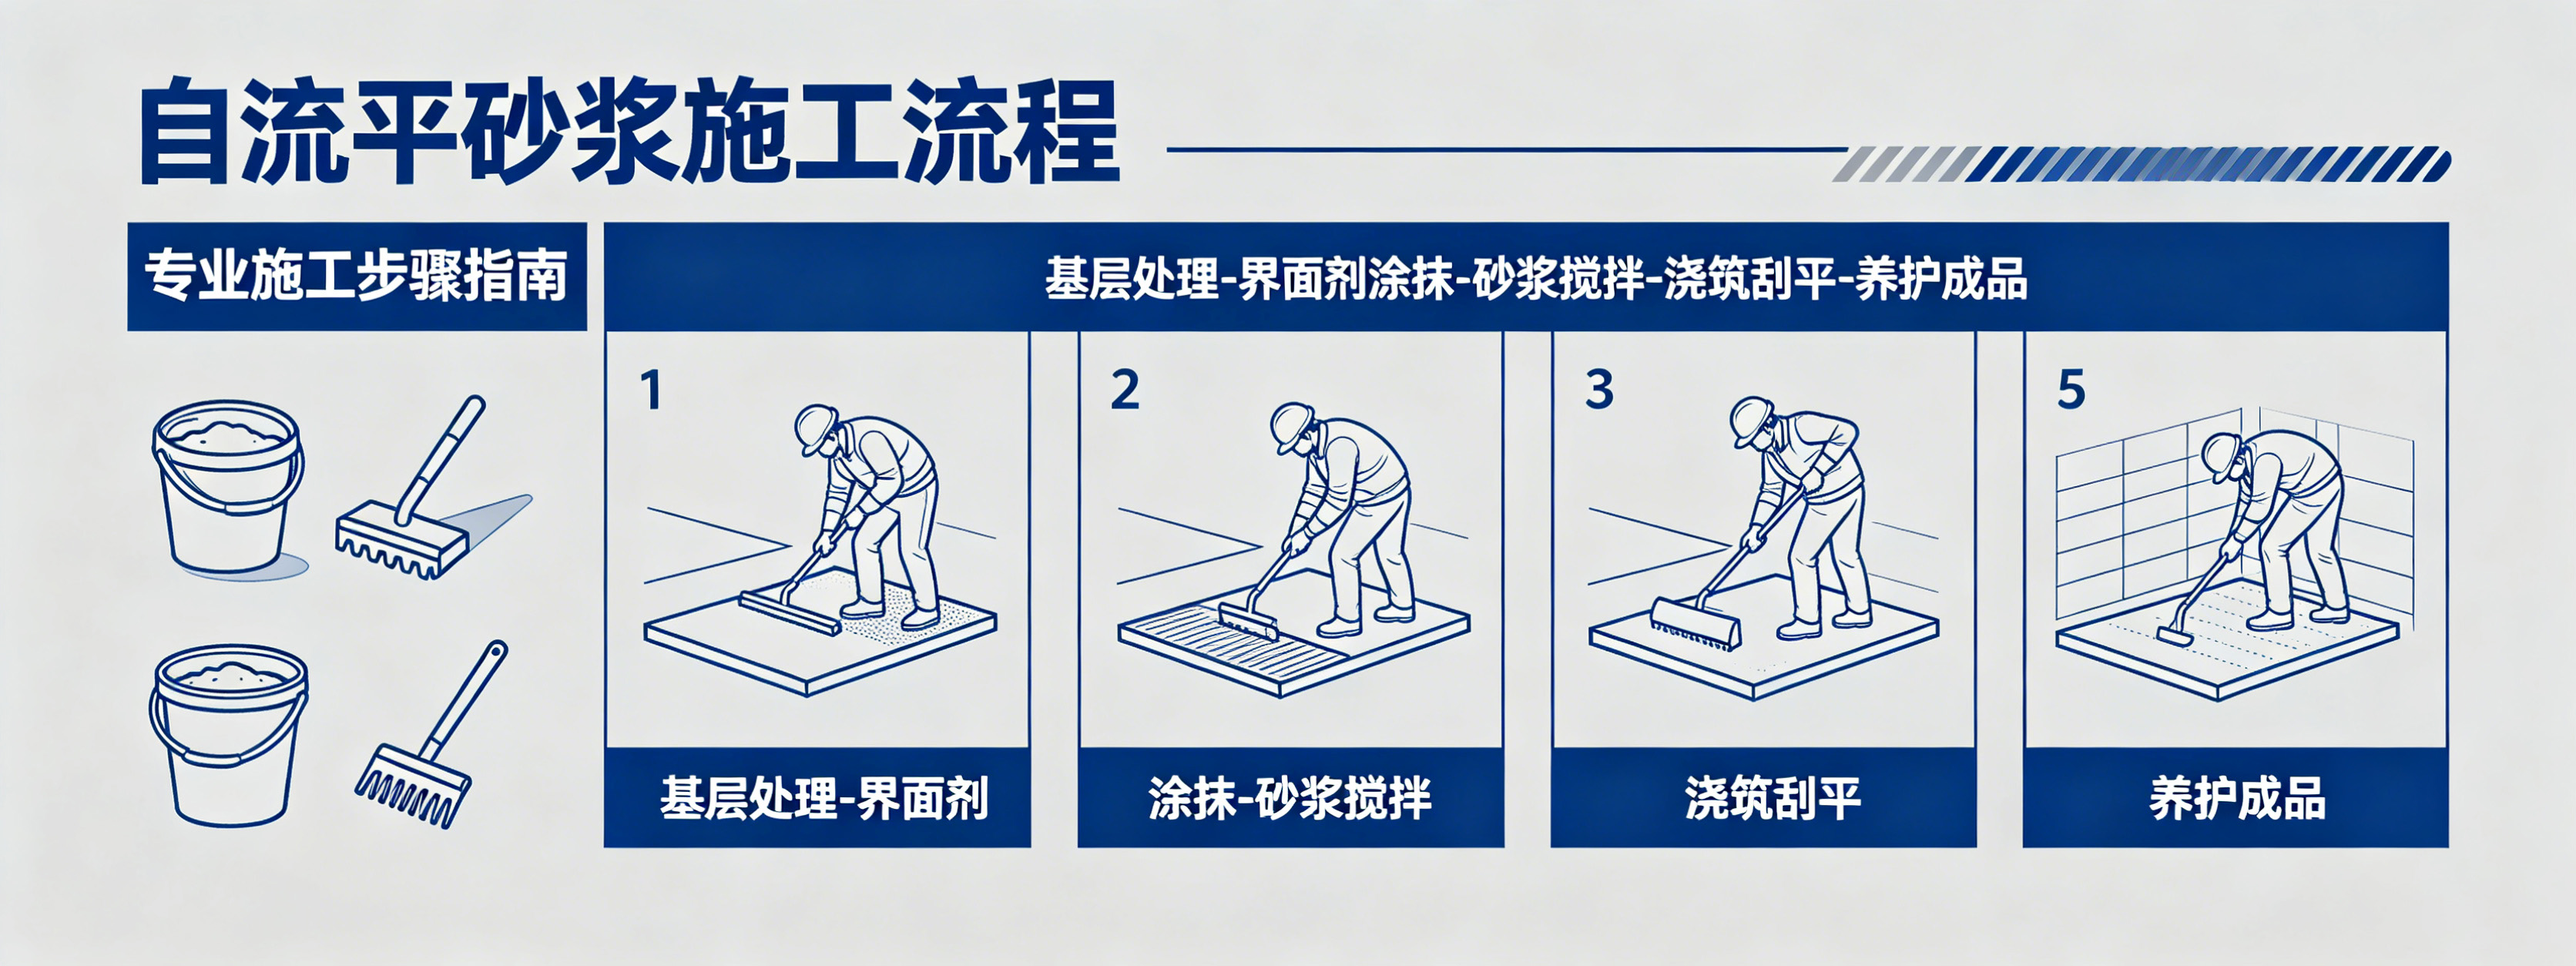
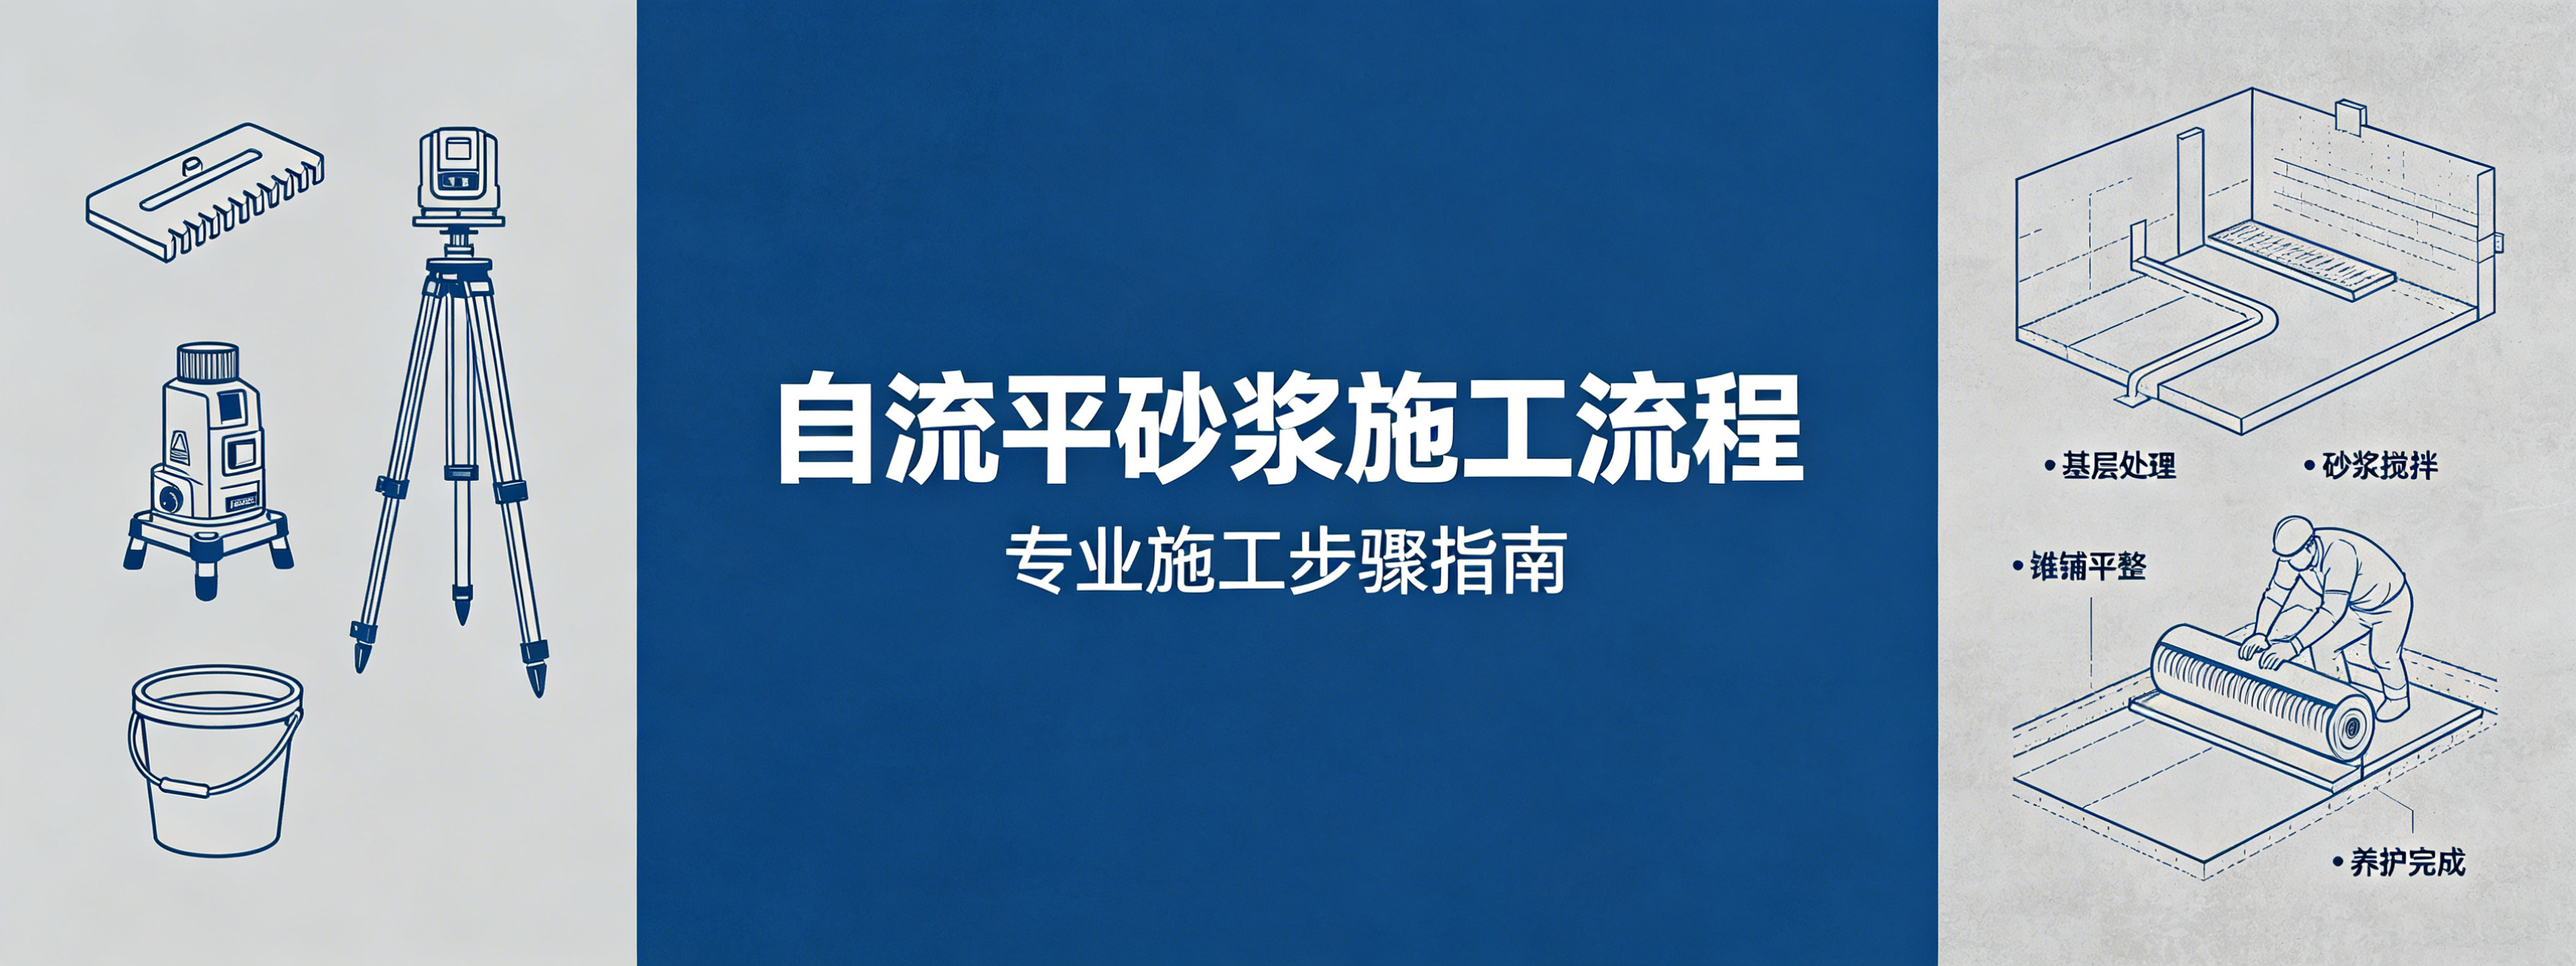
去掉联系我们页面的在线留言模块

diff --git a/src/app/contact/page.tsx b/src/app/contact/page.tsx
@@ -1,25 +1,6 @@
-'use client';
-
-import { useState } from 'react';
 import { siteConfig } from '@/data/siteData';
 
 export default function ContactPage() {
-  const [formData, setFormData] = useState({
-    name: '',
-    phone: '',
-    email: '',
-    company: '',
-    message: ''
-  });
-  const [submitted, setSubmitted] = useState(false);
-
-  const handleSubmit = (e: React.FormEvent) => {
-    e.preventDefault();
-    console.log('Form submitted:', formData);
-    setSubmitted(true);
-    setTimeout(() => setSubmitted(false), 5000);
-  };
-
   return (
     <div className="min-h-screen">
       {/* 顶部Banner */}
@@ -32,7 +13,7 @@ export default function ContactPage() {
       </div>
 
       <div className="max-w-7xl mx-auto px-4 py-12">
-        <div className="grid lg:grid-cols-2 gap-8">
+        <div className="max-w-3xl mx-auto">
           {/* 联系信息 */}
           <div className="glass-card p-8">
             <h2 className="text-2xl font-bold text-dark-800 mb-6">联系方式</h2>
@@ -80,96 +61,6 @@ export default function ContactPage() {
               <p className="text-xs text-dark-400 mt-1 text-center">河南省郑州市高新技术产业开发区</p>
               <p className="text-xs text-primary-500 mt-0.5 text-center group-hover:underline">点击查看导航 →</p>
             </a>
-          </div>
-
-          {/* 在线留言 */}
-          <div className="glass-card p-8">
-            <h2 className="text-2xl font-bold text-dark-800 mb-6">在线留言</h2>
-
-            {submitted ? (
-              <div className="h-full flex items-center justify-center">
-                <div className="text-center">
-                  <div className="text-6xl mb-4">✅</div>
-                  <h3 className="text-xl font-semibold text-dark-800 mb-2">提交成功！</h3>
-                  <p className="text-dark-500">我们会尽快与您联系，感谢您的关注！</p>
-                </div>
-              </div>
-            ) : (
-              <form onSubmit={handleSubmit} className="space-y-4">
-                <div className="grid md:grid-cols-2 gap-4">
-                  <div>
-                    <label className="block text-sm font-medium text-dark-600 mb-1">
-                      姓名 <span className="text-red-500">*</span>
-                    </label>
-                    <input
-                      type="text"
-                      required
-                      value={formData.name}
-                      onChange={(e) => setFormData({ ...formData, name: e.target.value })}
-                      className="w-full px-4 py-2.5 bg-dark-50 border border-dark-200 rounded-lg focus:ring-2 focus:ring-primary-500 focus:border-primary-500 outline-none transition-all duration-200 text-dark-700 placeholder:text-dark-400"
-                      placeholder="请输入您的姓名"
-                    />
-                  </div>
-                  <div>
-                    <label className="block text-sm font-medium text-dark-600 mb-1">
-                      电话 <span className="text-red-500">*</span>
-                    </label>
-                    <input
-                      type="tel"
-                      required
-                      value={formData.phone}
-                      onChange={(e) => setFormData({ ...formData, phone: e.target.value })}
-                      className="w-full px-4 py-2.5 bg-dark-50 border border-dark-200 rounded-lg focus:ring-2 focus:ring-primary-500 focus:border-primary-500 outline-none transition-all duration-200 text-dark-700 placeholder:text-dark-400"
-                      placeholder="请输入您的电话"
-                    />
-                  </div>
-                </div>
-
-                <div className="grid md:grid-cols-2 gap-4">
-                  <div>
-                    <label className="block text-sm font-medium text-dark-600 mb-1">邮箱</label>
-                    <input
-                      type="email"
-                      value={formData.email}
-                      onChange={(e) => setFormData({ ...formData, email: e.target.value })}
-                      className="w-full px-4 py-2.5 bg-dark-50 border border-dark-200 rounded-lg focus:ring-2 focus:ring-primary-500 focus:border-primary-500 outline-none transition-all duration-200 text-dark-700 placeholder:text-dark-400"
-                      placeholder="请输入您的邮箱"
-                    />
-                  </div>
-                  <div>
-                    <label className="block text-sm font-medium text-dark-600 mb-1">公司</label>
-                    <input
-                      type="text"
-                      value={formData.company}
-                      onChange={(e) => setFormData({ ...formData, company: e.target.value })}
-                      className="w-full px-4 py-2.5 bg-dark-50 border border-dark-200 rounded-lg focus:ring-2 focus:ring-primary-500 focus:border-primary-500 outline-none transition-all duration-200 text-dark-700 placeholder:text-dark-400"
-                      placeholder="请输入您的公司"
-                    />
-                  </div>
-                </div>
-
-                <div>
-                  <label className="block text-sm font-medium text-dark-600 mb-1">
-                    留言内容 <span className="text-red-500">*</span>
-                  </label>
-                  <textarea
-                    required
-                    rows={5}
-                    value={formData.message}
-                    onChange={(e) => setFormData({ ...formData, message: e.target.value })}
-                    className="w-full px-4 py-2.5 bg-dark-50 border border-dark-200 rounded-lg focus:ring-2 focus:ring-primary-500 focus:border-primary-500 outline-none transition-all duration-200 resize-none text-dark-700 placeholder:text-dark-400"
-                    placeholder="请输入您的留言内容..."
-                  />
-                </div>
-
-                <button
-                  type="submit"
-                  className="w-full glow-btn py-3 rounded-lg font-semibold"
-                >
-                  提交留言
-                </button>
-              </form>
-            )}
           </div>
         </div>
       </div>
